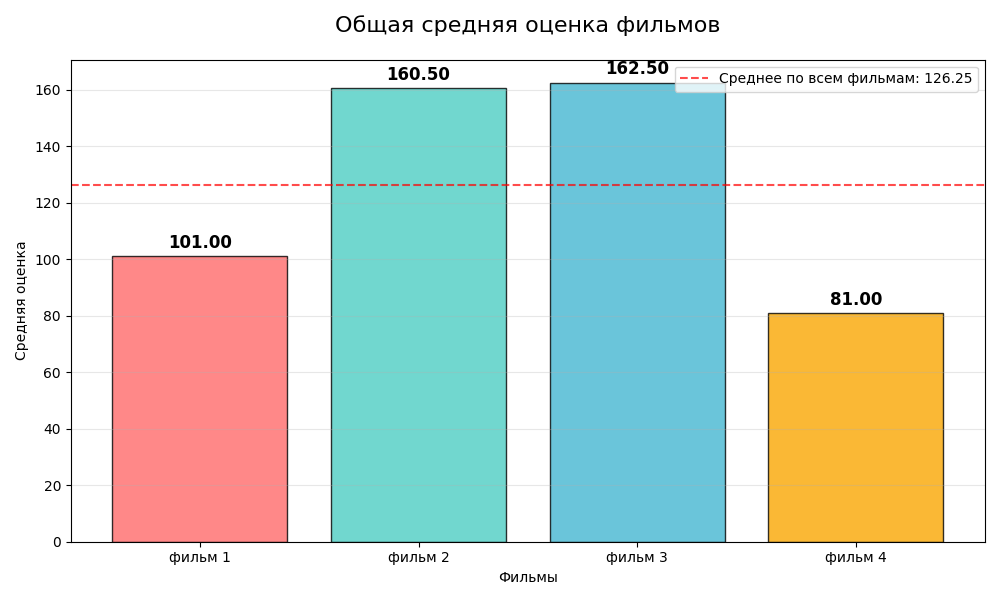
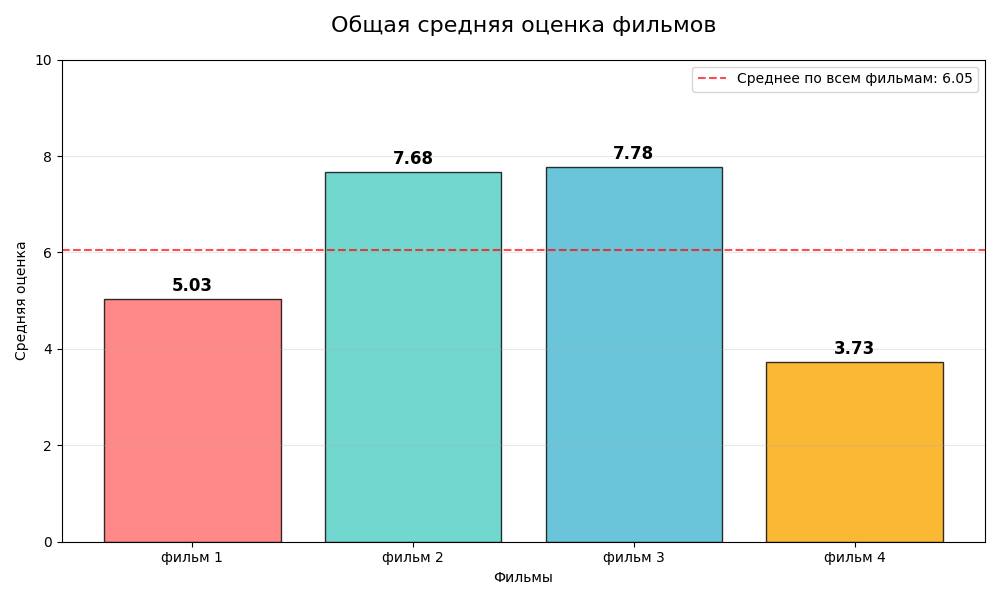
remade rating weights system

diff --git a/config.py b/config.py
@@ -13,12 +13,12 @@ class Settings(BaseSettings):
     @property
     def criteria_weights(self) -> dict:
         return {
-            "СЦЕНАРИЙ": 4,
-            "АКТЕРСКАЯ ИГРА": 4,
-            "ЦЕЛОСТНОСТЬ КАРТИНЫ": 4,
-            "МОНТАЖ": 3,
-            "ЗВУКОРЕЖЕССУРА": 3,
-            "ОПЕРАТОРСКАЯ РАБОТА": 3,
+            "СЦЕНАРИЙ": 0.25,           # 25%
+            "АКТЕРСКАЯ ИГРА": 0.20,     # 20%
+            "ОПЕРАТОРСКАЯ РАБОТА": 0.20, # 20%
+            "МОНТАЖ": 0.15,             # 15%
+            "ЗВУКОРЕЖЕССУРА": 0.15,     # 15%
+            "ЦЕЛОСТНОСТЬ КАРТИНЫ": 0.05   # 5%
         }
 
     @property

diff --git a/interface.py b/interface.py
@@ -125,6 +125,7 @@ def plot_overall_average_scores(data):
     ax.set_xlabel('Фильмы')
     ax.set_ylabel('Средняя оценка')
     ax.set_title('Общая средняя оценка фильмов', fontsize=16, pad=20)
+    ax.set_ylim(0, 10)
     
     
     # Добавляем сетку
